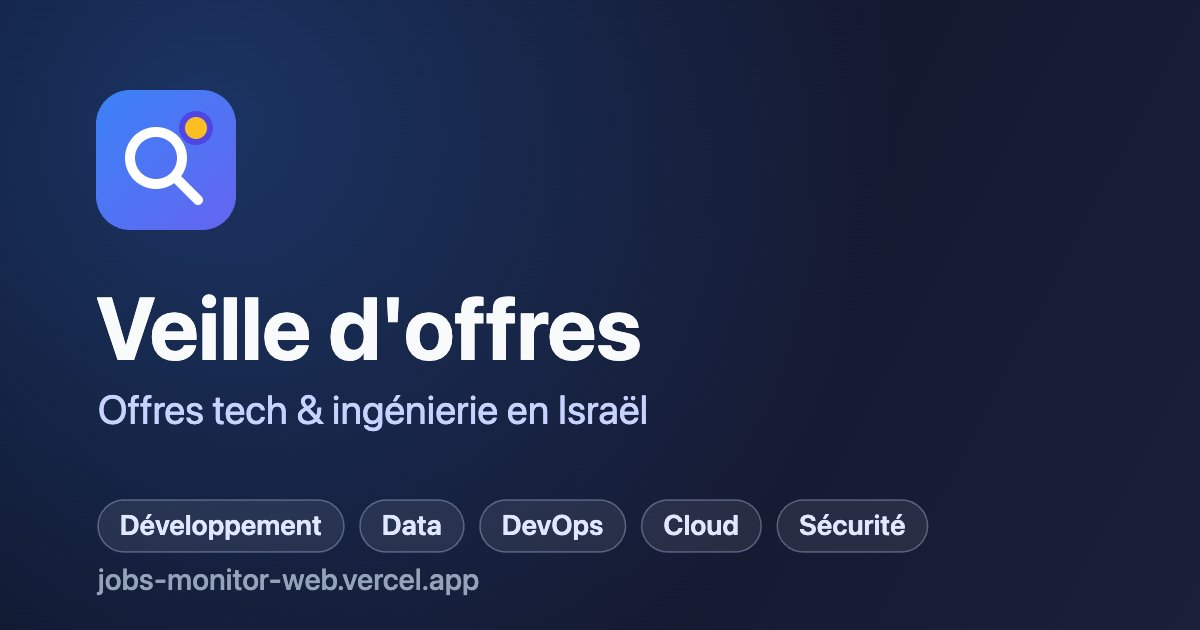
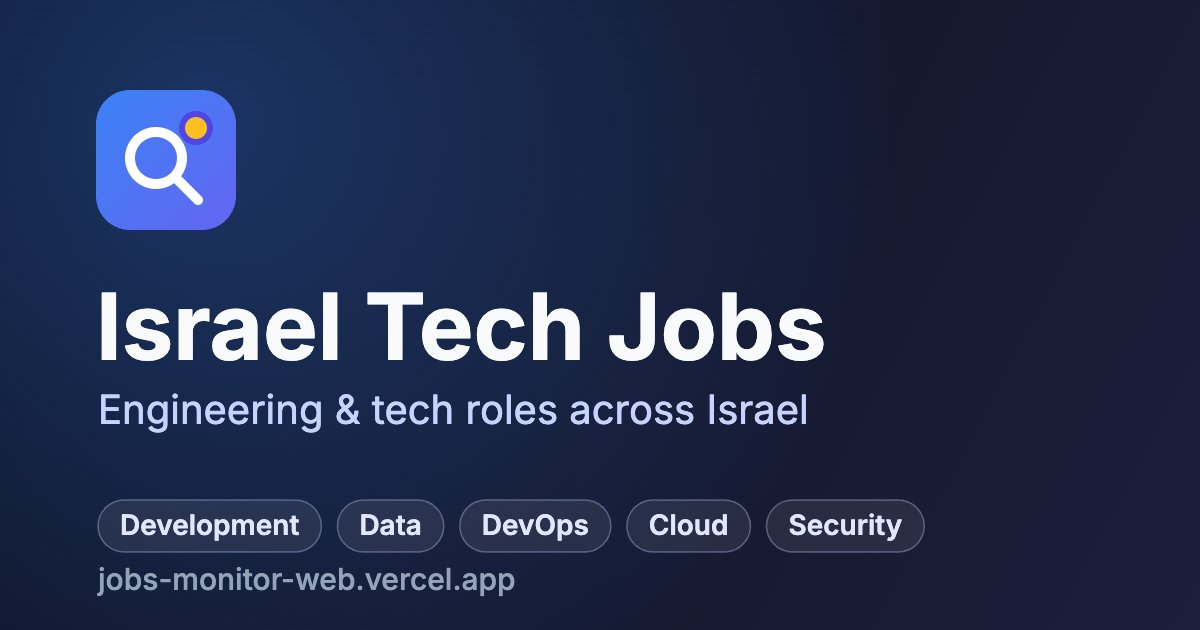
i18n: switch app to English + Hebrew, remove French; rebrand to Israel Tech Jobs
- New en.json locale (replaces fr.json), i18n defaults to en, EN/HE switcher.
- Rebrand: header + meta + manifest + og-image now 'Israel Tech Jobs'.
- Region labels: add label_en (frontend + patched regions.json).
- index.html meta/OG/Twitter in English, lang=en.

diff --git a/index.html b/index.html
@@ -1,13 +1,13 @@
 <!doctype html>
-<html lang="fr">
+<html lang="en">
   <head>
     <meta charset="UTF-8" />
     <meta name="viewport" content="width=device-width, initial-scale=1.0" />
 
-    <title>Veille d'offres · Offres tech & ingénierie en Israël</title>
+    <title>Israel Tech Jobs · Engineering & tech roles</title>
     <meta
       name="description"
-      content="Veille d'offres tech & ingénierie en Israël : développement, data, DevOps, cloud, sécurité. Offres agrégées depuis LinkedIn, les ATS et les sites carrière, rafraîchies automatiquement."
+      content="Tech & engineering jobs in Israel: development, data, DevOps, cloud, security. Aggregated from LinkedIn, ATS boards and career sites, refreshed automatically."
     />
     <meta name="author" content="Nathan Msika" />
     <link rel="canonical" href="https://jobs-monitor-web.vercel.app/" />
@@ -21,24 +21,24 @@
 
     <!-- Open Graph -->
     <meta property="og:type" content="website" />
-    <meta property="og:site_name" content="Veille d'offres" />
-    <meta property="og:title" content="Veille d'offres · Offres tech en Israël" />
+    <meta property="og:site_name" content="Israel Tech Jobs" />
+    <meta property="og:title" content="Israel Tech Jobs · Engineering & tech roles" />
     <meta
       property="og:description"
-      content="Offres tech & ingénierie en Israël (dev, data, DevOps, cloud, sécurité), agrégées et rafraîchies automatiquement."
+      content="Tech & engineering jobs in Israel (dev, data, DevOps, cloud, security), aggregated and refreshed automatically."
     />
     <meta property="og:url" content="https://jobs-monitor-web.vercel.app/" />
     <meta property="og:image" content="https://jobs-monitor-web.vercel.app/og-image.jpg" />
     <meta property="og:image:width" content="1200" />
     <meta property="og:image:height" content="630" />
-    <meta property="og:locale" content="fr_FR" />
+    <meta property="og:locale" content="en_US" />
 
     <!-- Twitter -->
     <meta name="twitter:card" content="summary_large_image" />
-    <meta name="twitter:title" content="Veille d'offres · Offres tech en Israël" />
+    <meta name="twitter:title" content="Israel Tech Jobs · Engineering & tech roles" />
     <meta
       name="twitter:description"
-      content="Offres tech & ingénierie en Israël, agrégées et rafraîchies automatiquement."
+      content="Tech & engineering jobs in Israel, aggregated and refreshed automatically."
     />
     <meta name="twitter:image" content="https://jobs-monitor-web.vercel.app/og-image.jpg" />
 

diff --git a/src/i18n/index.ts b/src/i18n/index.ts
@@ -2,10 +2,10 @@ import i18n from "i18next";
 import LanguageDetector from "i18next-browser-languagedetector";
 import { initReactI18next } from "react-i18next";
 
-import fr from "./locales/fr.json";
+import en from "./locales/en.json";
 import he from "./locales/he.json";
 
-export const SUPPORTED_LANGUAGES = ["fr", "he"] as const;
+export const SUPPORTED_LANGUAGES = ["en", "he"] as const;
 export type Language = (typeof SUPPORTED_LANGUAGES)[number];
 
 /** Languages that render right-to-left. */
@@ -20,10 +20,10 @@ i18n
   .use(initReactI18next)
   .init({
     resources: {
-      fr: { translation: fr },
+      en: { translation: en },
       he: { translation: he },
     },
-    fallbackLng: "fr",
+    fallbackLng: "en",
     supportedLngs: SUPPORTED_LANGUAGES,
     interpolation: { escapeValue: false },
     detection: {

diff --git a/src/components/FilterBar/FilterBar.tsx b/src/components/FilterBar/FilterBar.tsx
@@ -81,7 +81,7 @@ export function FilterBar({ filters, onChange }: Props) {
         >
           {regions?.map((r) => (
             <option key={r.key} value={r.key}>
-              {isHe ? r.label_he : r.label_fr}
+              {isHe ? r.label_he : (r.label_en ?? r.label_fr)}
             </option>
           ))}
         </select>

diff --git a/src/types.ts b/src/types.ts
@@ -40,7 +40,8 @@ export interface RefreshResult {
 
 export interface RegionInfo {
   key: string;
-  label_fr: string;
+  label_en: string;
+  label_fr?: string;
   label_he: string;
 }
 
